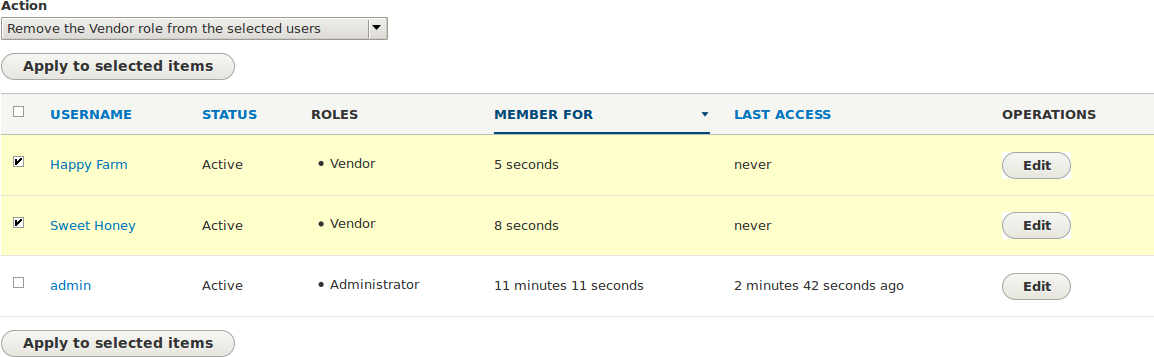
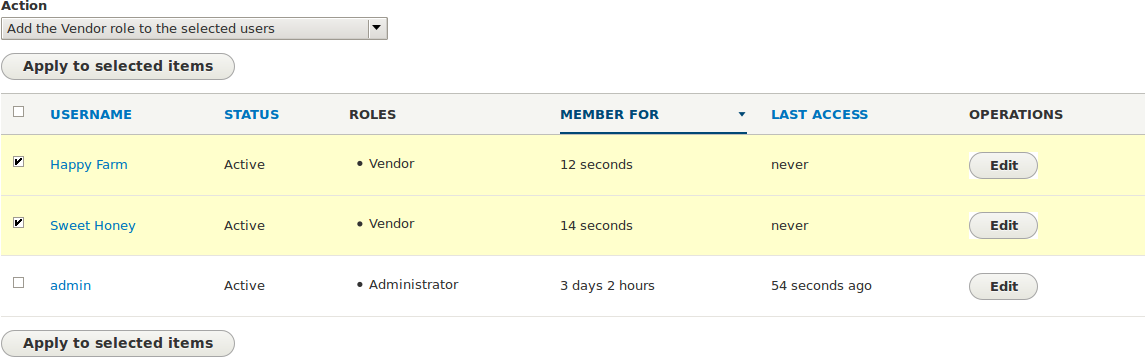
Issue #2762385 by jhodgdon: Fix up several automated images

diff --git a/auto_screenshots/src/Tests/UserGuideDemoTestBase.php b/auto_screenshots/src/Tests/UserGuideDemoTestBase.php
@@ -850,7 +850,7 @@ abstract class UserGuideDemoTestBase extends WebTestBase {
     // Widget drop-down outlined.
     // Note that ideally, the drop-down would be open, but this is not
     // apparently possible using JavaScript.
-    $this->setUpScreenShot('structure-form-editing-manage-form.png', 'onLoad="' . $this->hideArea('#toolbar-administration, header, .region-breadcrumb, .help') . 'jQuery(\'#edit-fields-field-' . $ingredients . '-type\').val(\'entity_reference_autocomplete_tags\');' . $this->addBorder('#edit-fields-field-' . $ingredients . '-type') . $this->removeScrollbars() . '"');
+    $this->setUpScreenShot('structure-form-editing-manage-form.png', 'onLoad="' . $this->hideArea('#toolbar-administration, header, .region-breadcrumb, .help, .field-plugin-settings-edit-wrapper, .tabledrag-toggle-weight-wrapper') . 'jQuery(\'#edit-fields-field-' . $ingredients . '-type\').val(\'entity_reference_autocomplete_tags\');' . $this->addBorder('#edit-fields-field-' . $ingredients . '-type') . $this->setWidth('#field-display-overview', 800) . $this->removeScrollbars() . '"');
 
     // Set the Ingredients field to use tag-style autocomplete.
     $this->drupalPostForm(NULL, [
@@ -1109,7 +1109,7 @@ abstract class UserGuideDemoTestBase extends WebTestBase {
     // Update two accounts using bulk edit.
     $this->drupalGet('admin/people');
     // Bulk editing form on People page (admin/people).
-    $this->setUpScreenShot('user-roles_bulk.png', 'onLoad="' . $this->hideArea('#toolbar-administration, header, .region-breadcrumb, #block-seven-local-actions, .view-filters') . 'jQuery(\'#edit-user-bulk-form-0, #edit-user-bulk-form-1\').attr(\'checked\', 1).parents(\'tr\').addClass(\'selected\');' . 'jQuery(\'#edit-action\').val(\'user_remove_role_action.' . $vendor . '\');' . $this->removeScrollbars() . $this->setBodyColor() . '"');
+    $this->setUpScreenShot('user-roles_bulk.png', 'onLoad="' . $this->hideArea('#toolbar-administration, header, .region-breadcrumb, #block-seven-local-actions, .view-filters') . 'jQuery(\'#edit-user-bulk-form-0, #edit-user-bulk-form-1\').attr(\'checked\', 1).parents(\'tr\').addClass(\'selected\');' . 'jQuery(\'#edit-action\').val(\'user_add_role_action.' . $vendor . '\');' . $this->removeScrollbars() . $this->setBodyColor() . '"');
     $this->drupalPostForm(NULL, [
         'user_bulk_form[0]' => 1,
         'user_bulk_form[1]' => 1,
